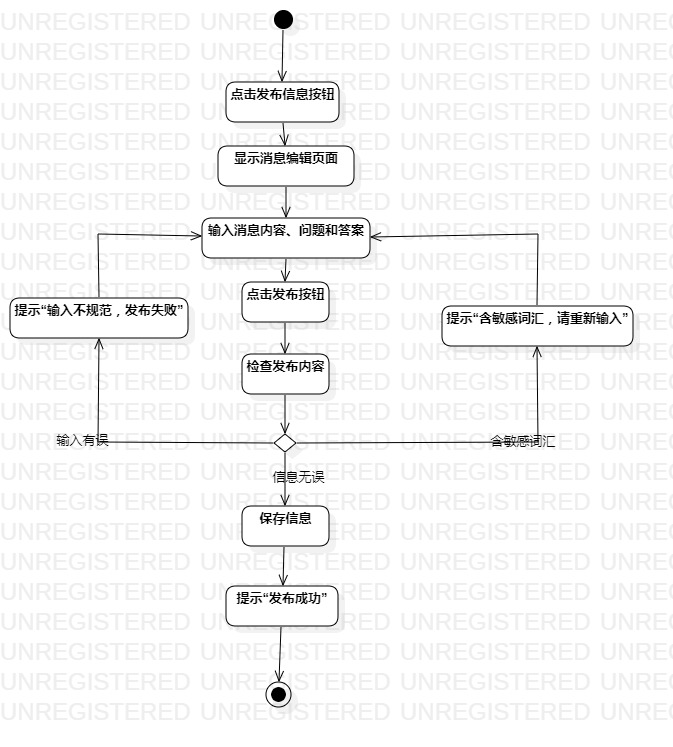
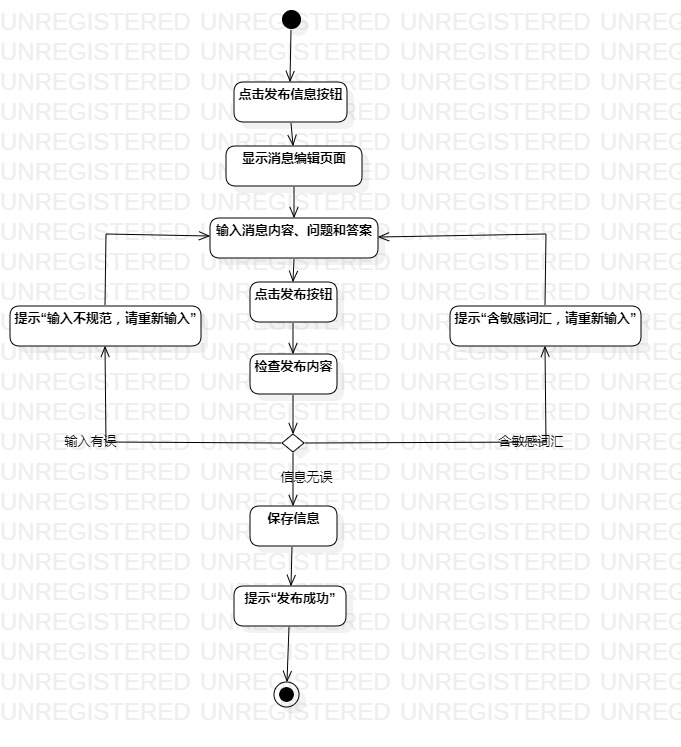
#3 #428 第三次实验 过程建模-1

diff --git a/students/1709081602513/lab2.md b/students/1709081602513/lab2.md
@@ -46,7 +46,7 @@
 ~| 4. 系统检查推送内容符合规范 |   
 ~| 5. 系统保存消息记录 | 
 ~| 6. 系统提示“推送成功”  | 
-扩展流程  | 4.1 信息输入不合规范，系统提示“信息不规范，发布失败”  | *用例执行失败*  
+扩展流程  | 4.1 信息输入不合规范，系统提示“信息不规范，请重新输入”  | *用例执行失败*  
 
 ## 表2: 发布社区信息用例规范
 
